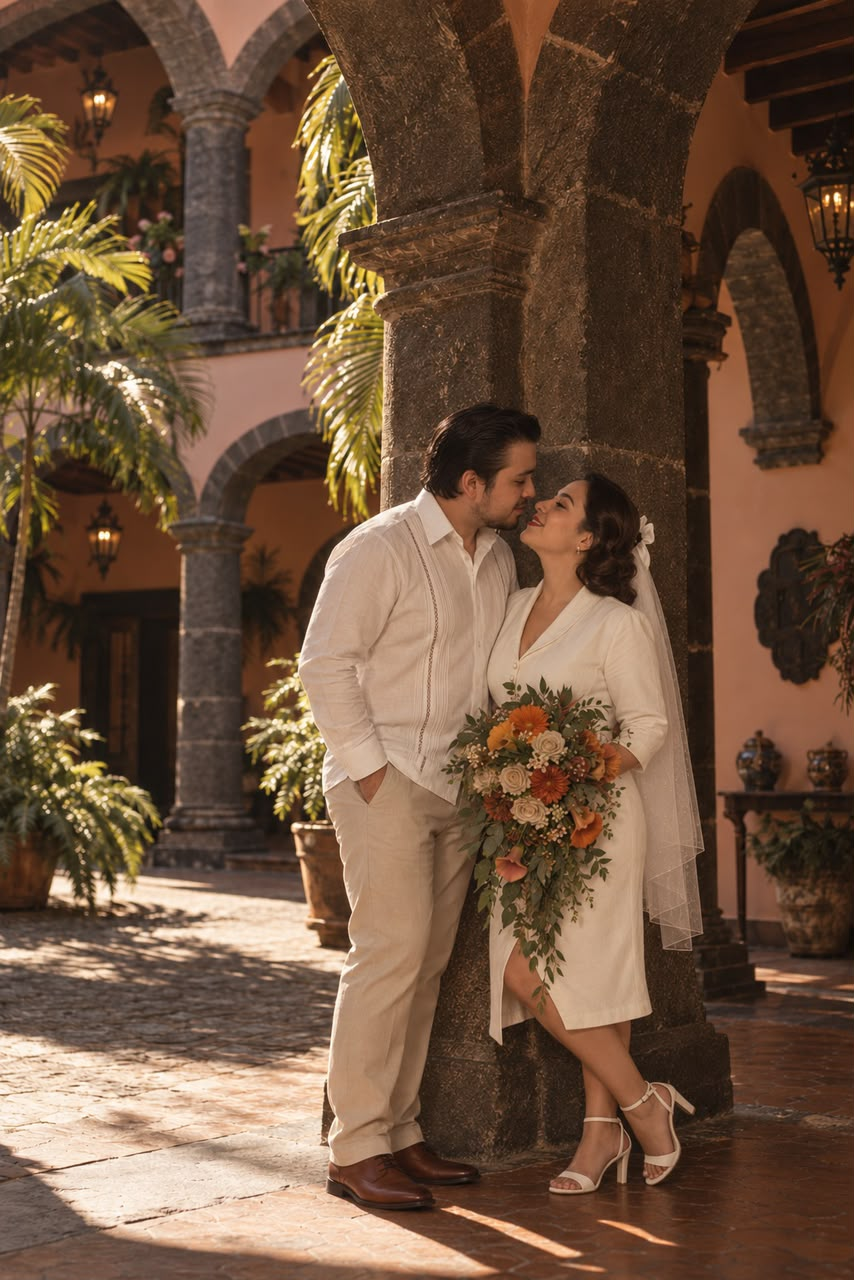
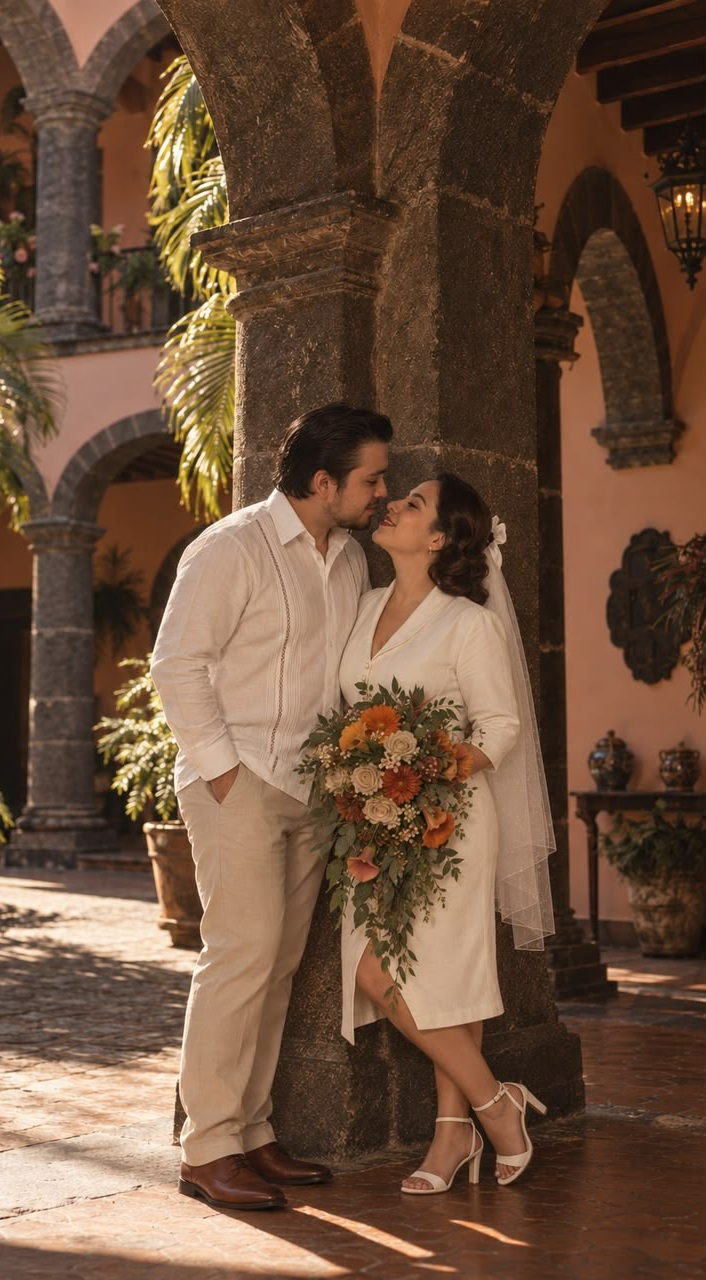
feat: actualizar frases, número de WhatsApp, imagen real3 y detalles de RSVP

diff --git a/app/routes/home.tsx b/app/routes/home.tsx
@@ -1,5 +1,5 @@
 import { useSearchParams } from "react-router";
-import { LUGAR, BG, PHOTO_1, PHOTO_2, LAURELES, FRASE } from "~/placeholder/placeholder";
+import { LUGAR, BG, PHOTO_1, PHOTO_2, LAURELES, FRASE, FRASE2, FRASE3, FRASE4 } from "~/placeholder/placeholder";
 import { INVITADOS } from "~/placeholder/invitados";
 import type { Route } from "./+types/home";
 import Cronometro from "~/components/Cronometro";
@@ -102,9 +102,11 @@ export default function Home() {
             <Cronometro deadline={new Date("October 17, 2026 00:00:00")} />
           </div>
 
-          {/* <div className="flex mt-8 px-6 text-center text-amber-900 text-shadow-xs/20">
-            <p className="italic leading-relaxed">"{FRASE}"</p>
-          </div> */}
+          <div className="flex-col mt-8 px-6 text-center text-amber-900 text-shadow-xs/20">
+            <p className="italic leading-relaxed">"{FRASE}</p>
+            <p className="italic leading-relaxed"><strong>Leslie y Héctor</strong></p>
+            <p className="italic leading-relaxed">{FRASE2}"</p>
+          </div>
 
         {/* Secciones previas comentadas (no borrar) */}
         {/*
@@ -336,6 +338,12 @@ export default function Home() {
             {/* <div className="text-xs tracking-widest uppercase font-[Roboto_Slab] opacity-75">
               RSVP • WhatsApp & QR
             </div> */}
+            <div className="text-xs font-semibold tracking-wider font-[Roboto_Slab] uppercase opacity-90">
+              {FRASE3}
+            </div>
+            <div className="text-xs font-semibold tracking-wider font-[Roboto_Slab] uppercase opacity-90">
+              {FRASE4}
+            </div>
             <BotonAsistencia nombreInvitado={nombreInvitado} />
           </section>
 

diff --git a/app/placeholder/placeholder.tsx b/app/placeholder/placeholder.tsx
@@ -3,5 +3,8 @@ export const PHOTO_2 = "../app/assets/img/placeholder2.jpg";
 export const LAURELES = "../app/assets/img/laureles.png";
 export const BG = "../app/assets/img/bg3.jpg";
 export const LUGAR = "JARDIN DE EVENTOS LA FELICIDAD";
-export const FRASE = "Lorem ipsum dolor sit amet consectetur adipiscing elit parturient, primis neque facilisis interdum netus varius sagittis";
+export const FRASE = "El amor es el ingrediente secreto de una buena vida, y";
+export const FRASE2 = "están emocionados de comenzar una nueva vida juntos llena de amor";
+export const FRASE3 = "No importa si tu respuesta es \"sí\" \"no\" o \"tal vez\"";
+export const FRASE4 = "Contamos con su puntualidad para vivir este momento tan especial Asegúrate de confirmar antes del 5 de octubre";
 export const TELEFONO_WHATSAPP = "5213121541516"; // Configura aquí tu número de WhatsApp con clave de país (ej. 521...)

diff --git a/app/components/BotonAsistencia.tsx b/app/components/BotonAsistencia.tsx
@@ -34,7 +34,7 @@ export default function BotonAsistencia({
         <span>¡Asistiré!</span>
       </a>
       <p className="text-xs text-amber-900/70 font-[Roboto_Slab]">
-        Haz clic para confirmar tu lugar vía WhatsApp
+        <strong>¡Nos vemos en la boda!</strong>
       </p>
     </div>
   );
